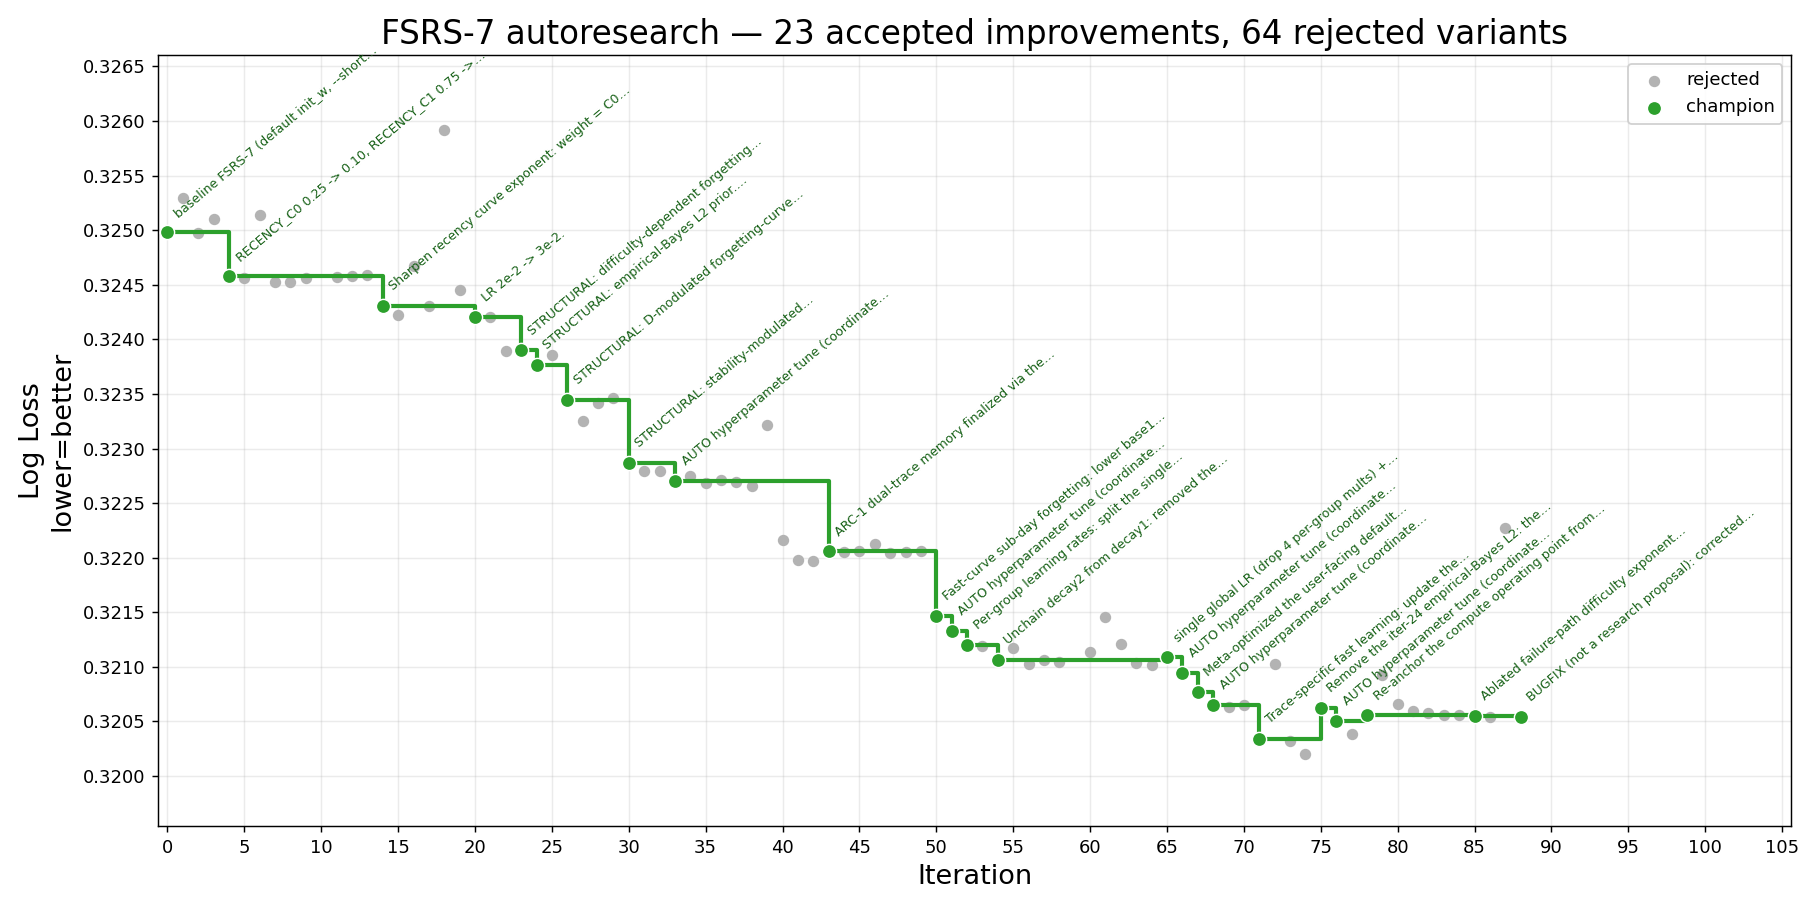
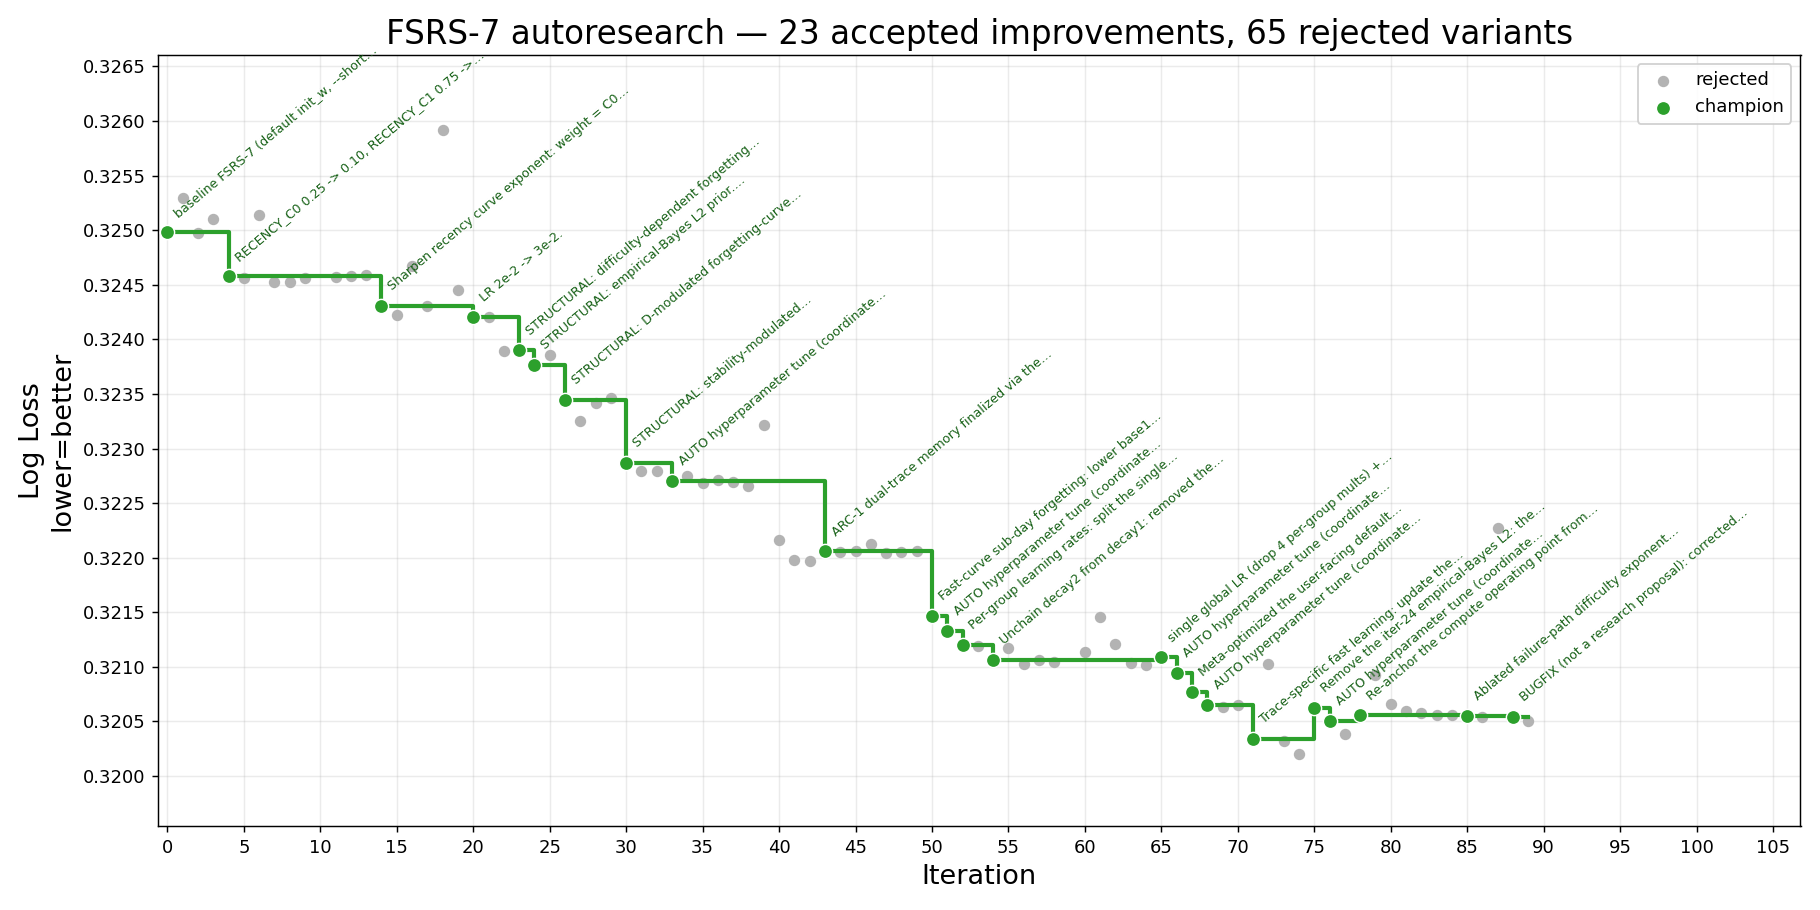
iter 89 (rejected): base2 ceiling 0.99->0.997 near-miss (+3.8e-5 < 0.0001); ~8% of users want near-flat slow forgetting but the gain saturates sub-threshold toward degenerate base2=1

diff --git a/result/history.md b/result/history.md
@@ -1,6 +1,6 @@
 # FSRS-7 autoresearch — iteration history
 
-_88 record(s). Generated from `history.jsonl` — do not edit by hand._
+_89 record(s). Generated from `history.jsonl` — do not edit by hand._
 
 | # | Time (UTC) | Thresh. | LL before | LL after | Δ LL | Cx before | Cx after | Δ Cx % | Status | Summary |
 |--:|---|---:|---:|---:|---:|---:|---:|---:|---|---|
@@ -92,3 +92,4 @@ _88 record(s). Generated from `history.jsonl` — do not edit by hand._
 | 86 | 2026-06-04T01:00:43 | 0.0001 | 0.32055 | 0.32054 | +0.00001 | 16,804 | 16,804 | +0.00% | rejected | AUTO hyperparameter tune (coordinate descent over training hyperparameters (LR/betas/L2/recency C0+EXP)): best candidate BETA2 0.9913->0.9942. |
 | 87 | 2026-06-04T01:13:41 | 0.0001 | 0.32055 | 0.32227 | -0.00172 | 16,804 | 16,891 | +0.52% | rejected | Slow trace updates from its own d-unmodulated slow-component recall r2 (new helper) instead of mixed retention. 0 params. |
 | 88 | 2026-06-04T01:23:35 | — | 0.32055 | 0.32054 | +0.00001 | 16,804 | 16,804 | +0.00% | accepted | BUGFIX (not a research proposal): corrected apply_parameter_clipper base2>=base1 chain index 28/27 -> 26/25, missed in iter-85 ablation reindex. |
+| 89 | 2026-06-04T01:31:41 | 0.0001 | 0.32054 | 0.32051 | +0.00004 | 16,804 | 16,804 | +0.00% | rejected | Raised base2 upper clamp 0.99->0.997 (slow-curve base; 10.5% of users were pinned at ceiling). 0 params. |
